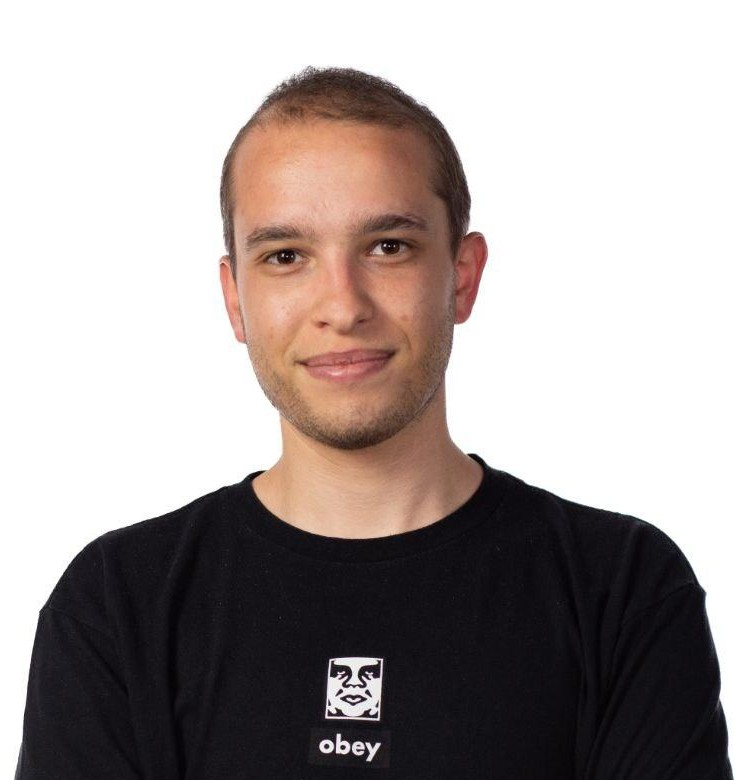
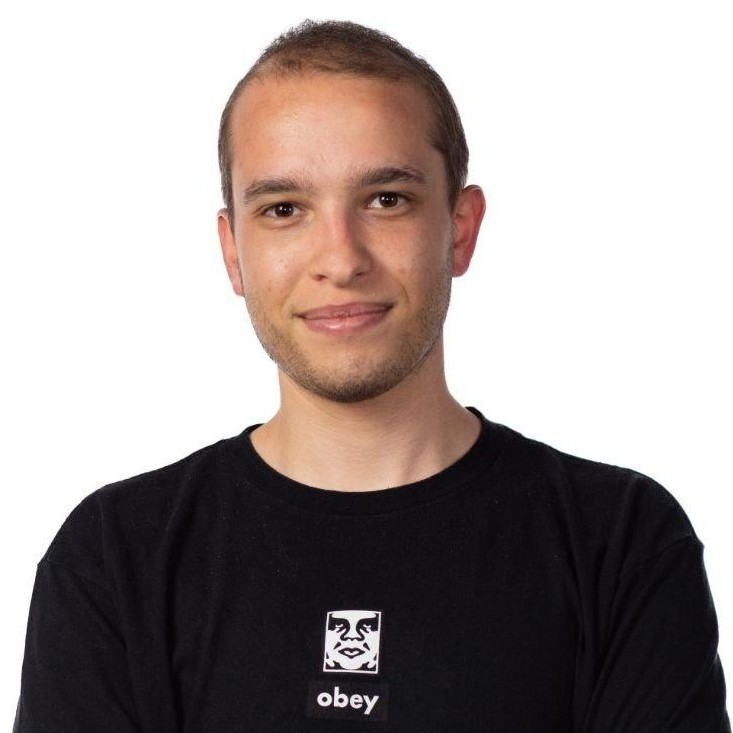
Making my face smaller

diff --git a/index.html b/index.html
@@ -27,7 +27,7 @@
               </p>
             </td>
             <td style="padding:2.5%;width:40%;max-width:40%">
-              <a href="images/profile_pic.jpg"><img style="width:100%;max-width:100%" alt="profile photo" src="images/profile_pic.jpg" class="hoverZoomLink"></a>
+              <a href="images/profile_pic_small.jpg"><img style="width:100%;max-width:100%" alt="profile photo" src="images/profile_pic_small.jpg" class="hoverZoomLink"></a>
             </td>
           </tr>
         </tbody></table>
